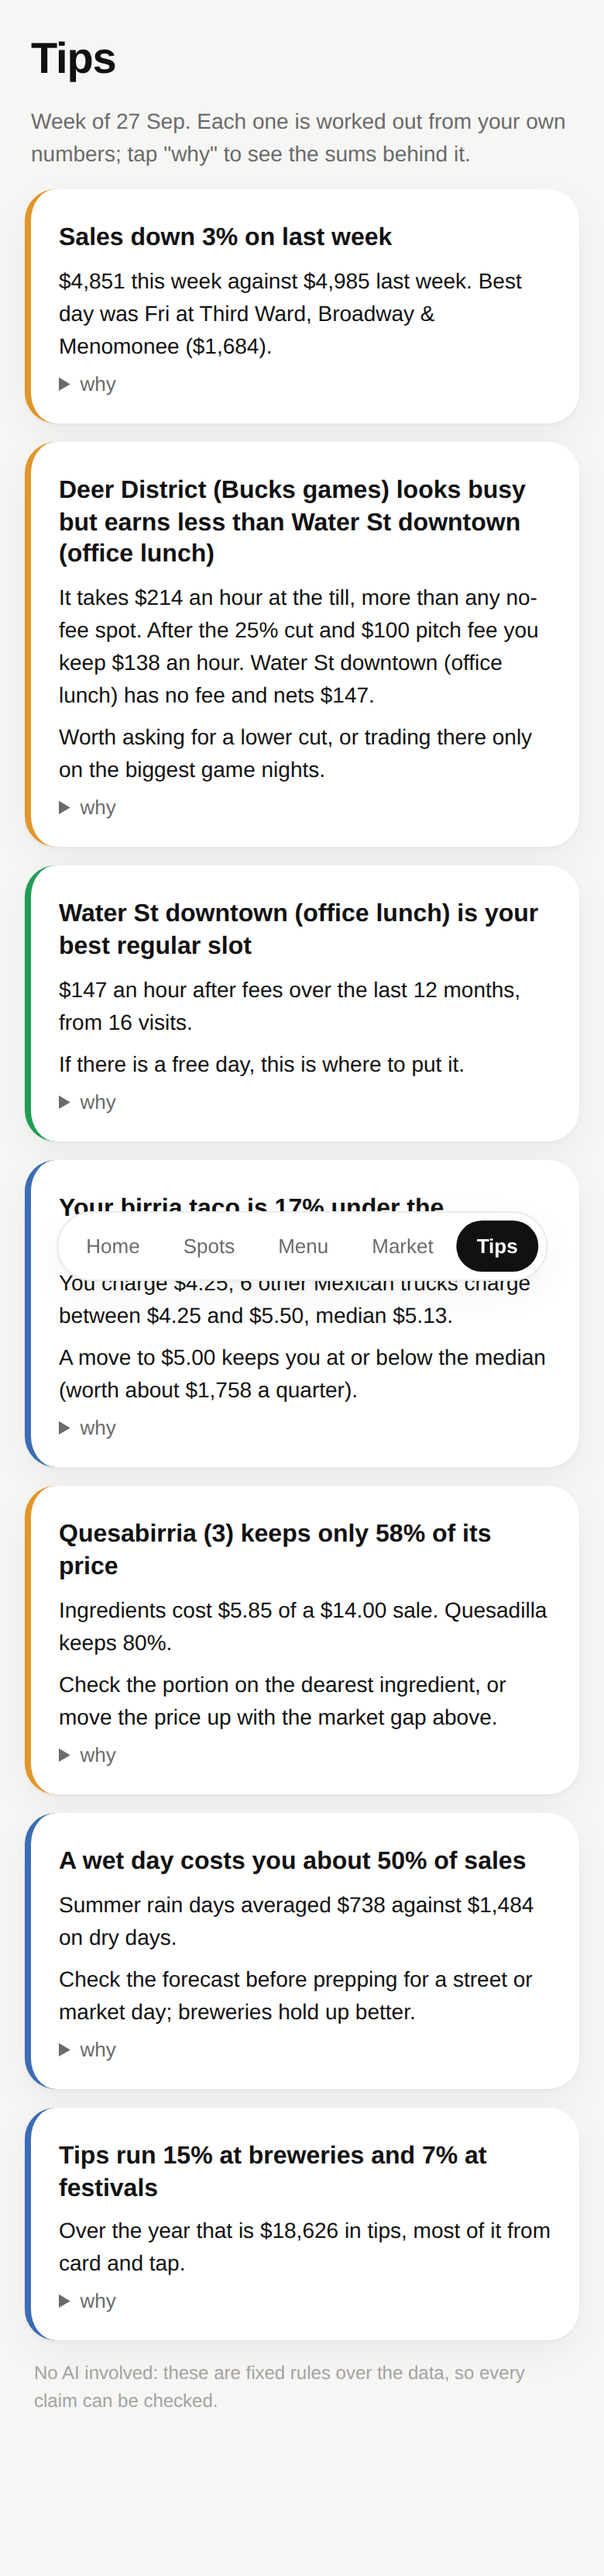
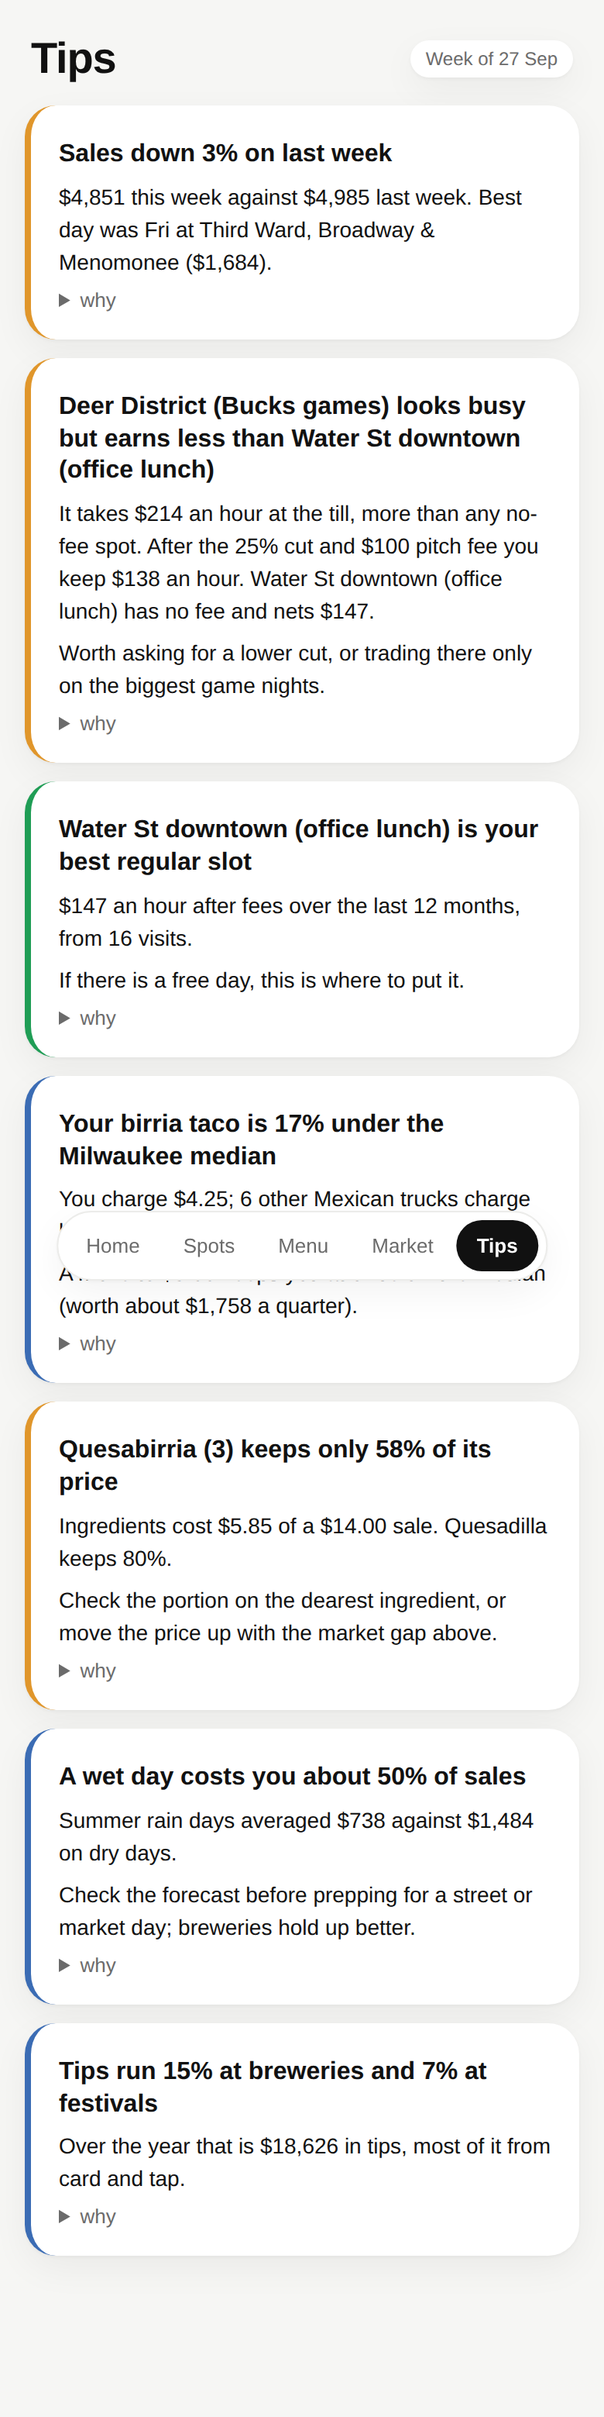
Add an overall business rating and strip the explanatory notes
The rating at the top of Home comes from three checks (sales trend, what
you keep after food, staff and fees, pricing against the market); tapping
it shows the checks. Footnotes and intro paragraphs removed from every
screen; the Menu intro became a 'you keep' figure. The Home chart now
highlights the last day traded rather than a day off.

Claude-Session: https://claude.ai/code/session_011kULvXi1EhLGoQfkcWDNEp

diff --git a/food-truck-app/src/lib/health.ts b/food-truck-app/src/lib/health.ts
@@ -1,0 +1,52 @@
+// One overall rating for the top of Home, built from three checks an owner
+// can see and argue with. Each check scores -1, 0 or +1; the sum sets the
+// badge. Nothing here is a model: change a threshold and the rating moves.
+import { data, daysBetween, pct, pctChange, rangeWindow, totals } from './data'
+
+export type Check = { label: string; detail: string; score: -1 | 0 | 1 }
+export type Health = { rating: 'Good' | 'Steady' | 'Needs attention'; tone: 'good' | 'info' | 'warn'; summary: string; checks: Check[] }
+
+export function health(): Health {
+  const checks: Check[] = []
+
+  // 1. Momentum: this week against last week.
+  const w = rangeWindow('1W')
+  const now = totals(daysBetween(w.from, w.to))
+  const prev = totals(daysBetween(w.prevFrom, w.prevTo))
+  const ch = pctChange(now.gross, prev.gross)
+  if (ch === null) checks.push({ label: 'Sales trend', detail: 'Not enough history yet.', score: 0 })
+  else if (ch >= 0.05) checks.push({ label: 'Sales trend', detail: `Up ${pct(ch, false)} on last week.`, score: 1 })
+  else if (ch <= -0.1) checks.push({ label: 'Sales trend', detail: `Down ${pct(Math.abs(ch), false)} on last week.`, score: -1 })
+  else checks.push({ label: 'Sales trend', detail: `About level with last week (${pct(ch)}).`, score: 0 })
+
+  // 2. What you keep: sales minus food, staff and fees over the last 4 weeks.
+  const m = { from: addWeeks(w.to, -4), to: w.to }
+  const ds = daysBetween(m.from, m.to).filter((d) => d.trading)
+  const gross = ds.reduce((a, d) => a + (d.gross_sales ?? 0), 0)
+  const kept = ds.reduce((a, d) => a + (d.contribution ?? 0), 0)
+  const keep = gross ? kept / gross : 0
+  if (!gross) checks.push({ label: 'What you keep', detail: 'No sales in the last 4 weeks.', score: -1 })
+  else if (keep >= 0.25) checks.push({ label: 'What you keep', detail: `${pct(keep, false)} of sales left after food, staff and fees.`, score: 1 })
+  else if (keep >= 0.12) checks.push({ label: 'What you keep', detail: `${pct(keep, false)} of sales left after food, staff and fees. Healthy is 25% or more.`, score: 0 })
+  else checks.push({ label: 'What you keep', detail: `Only ${pct(keep, false)} of sales left after food, staff and fees.`, score: -1 })
+
+  // 3. Pricing against the market.
+  const priced = data.benchmarks.filter((b) => b.hero_price !== null && b.n_trucks >= 3)
+  const under = priced.filter((b) => (b.hero_vs_median ?? 0) <= -0.1).length
+  if (under === 0) checks.push({ label: 'Pricing', detail: 'No item is more than 10% under the market middle.', score: 1 })
+  else if (under <= 2) checks.push({ label: 'Pricing', detail: `${under} item${under > 1 ? 's' : ''} more than 10% under the market middle.`, score: 0 })
+  else checks.push({ label: 'Pricing', detail: `${under} items more than 10% under the market middle.`, score: -1 })
+
+  const total = checks.reduce((a, c) => a + c.score, 0)
+  const weak = checks.filter((c) => c.score < 0)
+  if (total >= 2) return { rating: 'Good', tone: 'good', summary: 'Sales, margin and pricing all look healthy.', checks }
+  if (total <= -1 || weak.length >= 2)
+    return { rating: 'Needs attention', tone: 'warn', summary: `${weak.map((c) => c.label.toLowerCase()).join(' and ')} need${weak.length === 1 ? 's' : ''} a look.`, checks }
+  return { rating: 'Steady', tone: 'info', summary: weak.length ? `Fine overall, but ${weak[0].label.toLowerCase()} needs a look.` : 'Nothing urgent. One or two things could be better.', checks }
+}
+
+function addWeeks(iso: string, n: number): string {
+  const d = new Date(iso + 'T00:00:00Z')
+  d.setUTCDate(d.getUTCDate() + n * 7 + 1)
+  return d.toISOString().slice(0, 10)
+}

diff --git a/food-truck-app/src/screens/Home.tsx b/food-truck-app/src/screens/Home.tsx
@@ -1,7 +1,9 @@
 import { Link } from 'react-router-dom'
 import { Bars, Card, Delta, Meter, Pills, Tile } from '../components/ui'
 import { RANGES, buckets, data, daysBetween, itemTotals, money, pctChange, rangeWindow, totals, type RangeKey } from '../lib/data'
+import { health } from '../lib/health'
 import { weeklyInsights } from '../lib/insights'
+import { useState } from 'react'
 
 export default function Home({ range, setRange }: { range: RangeKey; setRange: (k: RangeKey) => void }) {
   const w = rangeWindow(range)
@@ -14,6 +16,8 @@ export default function Home({ range, setRange }: { range: RangeKey; setRange: (
   const prevAvg = prev.orders ? prev.gross / prev.orders : 0
   const tips = weeklyInsights()
   const lead = tips.find((t) => t.id === 'fees') ?? tips[0]
+  const h = health()
+  const [why, setWhy] = useState(false)
 
   return (
     <>
@@ -24,6 +28,27 @@ export default function Home({ range, setRange }: { range: RangeKey; setRange: (
         </div>
         <div className="avatar" aria-hidden>{data.truck.owner[0]}</div>
       </header>
+
+      <Card className={`rating ${h.tone}`} onClick={() => setWhy(!why)}>
+        <div className="row">
+          <div>
+            <div className="label">Business is</div>
+            <div className="rating-word">{h.rating}</div>
+            <div className="rating-sum">{h.summary}</div>
+          </div>
+          <span className={`dot ${h.tone}`} aria-hidden />
+        </div>
+        {why && (
+          <ul className="checks">
+            {h.checks.map((c) => (
+              <li key={c.label} className={c.score > 0 ? 'good' : c.score < 0 ? 'warn' : 'info'}>
+                <span className="dot" aria-hidden />
+                <div><b>{c.label}</b><span>{c.detail}</span></div>
+              </li>
+            ))}
+          </ul>
+        )}
+      </Card>
 
       <Card className="hero">
         <div className="row">
@@ -72,9 +97,6 @@ export default function Home({ range, setRange }: { range: RangeKey; setRange: (
         </ul>
       </Card>
 
-      <p className="foot">
-        {now.tradingDays} trading days, {now.hours} hours on the hatch. Data through {w.to}. Demo data, not a real truck.
-      </p>
     </>
   )
 }

diff --git a/food-truck-app/src/screens/Menu.tsx b/food-truck-app/src/screens/Menu.tsx
@@ -1,5 +1,5 @@
 import { Card, Meter, Pills, Spark } from '../components/ui'
-import { RANGES, addDays, data, itemTotals, money, pct, rangeWindow, type RangeKey } from '../lib/data'
+import { addDays, data, itemTotals, money, pct, rangeWindow, type RangeKey } from '../lib/data'
 
 function weeklySeries(itemId: string, to: string, weeks = 12): number[] {
   const out: number[] = []
@@ -16,7 +16,6 @@ export default function Menu({ range, setRange }: { range: RangeKey; setRange: (
   const w = rangeWindow(range)
   const items = itemTotals(w.from, w.to)
   const max = items[0]?.revenue ?? 1
-  const label = RANGES.find((r) => r.key === range)!.label
   const total = items.reduce((a, i) => a + i.revenue, 0)
   const cogs = items.reduce((a, i) => a + i.cogs, 0)
 
@@ -26,9 +25,12 @@ export default function Menu({ range, setRange }: { range: RangeKey; setRange: (
         <h1>Menu</h1>
         <Pills value={range} onChange={setRange} />
       </header>
-      <p className="lede">
-        Every item over the last {label}. "Keeps" is what is left after ingredients, from your recipe costs. {total > 0 ? `Overall you keep ${pct(1 - cogs / total, false)} of ${money(total)}.` : 'Nothing sold in this range.'}
-      </p>
+      {total > 0 && (
+        <Card className="hero compact">
+          <div className="label">You keep, after ingredients</div>
+          <div className="big">{pct(1 - cogs / total, false)} <small>of {money(total)}</small></div>
+        </Card>
+      )}
 
       <Card>
         <ul className="list">
@@ -54,7 +56,6 @@ export default function Menu({ range, setRange }: { range: RangeKey; setRange: (
           })}
         </ul>
       </Card>
-      <p className="foot">Sparkline is the last 12 weeks of sales for each item. Green keeps 60% or more; amber is under 60% and worth a look.</p>
     </>
   )
 }

diff --git a/food-truck-app/src/app.css b/food-truck-app/src/app.css
@@ -135,3 +135,18 @@ a.plain { text-decoration: none; color: inherit; }
 }
 .nav a { font-size: 13px; padding: 9px 13px; border-radius: 999px; color: var(--ink-2); text-decoration: none; }
 .nav a.on { background: var(--ink); color: #fff; font-weight: 600; }
+
+/* rating */
+.rating { cursor: pointer; }
+.rating-word { font-size: 30px; font-weight: 700; letter-spacing: -0.02em; line-height: 1.1; margin: 2px 0; }
+.rating-sum { font-size: 13px; color: var(--ink-2); }
+.dot { width: 14px; height: 14px; border-radius: 50%; flex: none; background: var(--ink-3); }
+.dot.good, .good > .dot { background: var(--good); }
+.dot.warn, .warn > .dot { background: var(--warn); }
+.dot.info, .info > .dot { background: #3b6cb4; }
+.checks { list-style: none; margin: 14px 0 0; padding: 12px 0 0; border-top: 1px solid var(--line); display: flex; flex-direction: column; gap: 10px; }
+.checks li { display: flex; gap: 10px; align-items: flex-start; }
+.checks li .dot { width: 10px; height: 10px; margin-top: 4px; }
+.checks li div { display: flex; flex-direction: column; gap: 2px; font-size: 13px; }
+.checks li span:not(.dot) { color: var(--ink-2); }
+.tag { font-size: 12px; color: var(--ink-2); background: var(--card); padding: 5px 10px; border-radius: 999px; box-shadow: var(--shadow); }

diff --git a/food-truck-app/src/screens/Spots.tsx b/food-truck-app/src/screens/Spots.tsx
@@ -1,6 +1,6 @@
 import { useState } from 'react'
 import { Bars, Card, Meter, Pills } from '../components/ui'
-import { RANGES, hourLabel, hourlyFor, money, pct, rangeWindow, spotStats, type RangeKey } from '../lib/data'
+import { hourLabel, hourlyFor, money, pct, rangeWindow, spotStats, type RangeKey } from '../lib/data'
 
 export default function Spots({ range, setRange }: { range: RangeKey; setRange: (k: RangeKey) => void }) {
   const w = rangeWindow(range)
@@ -8,7 +8,6 @@ export default function Spots({ range, setRange }: { range: RangeKey; setRange: 
   const [open, setOpen] = useState<string | null>(null)
   const maxNet = Math.max(1, ...spots.map((s) => s.netPerHour))
   const maxGross = Math.max(1, ...spots.map((s) => s.grossPerHour))
-  const label = RANGES.find((r) => r.key === range)!.label
 
   return (
     <>
@@ -16,7 +15,6 @@ export default function Spots({ range, setRange }: { range: RangeKey; setRange: 
         <h1>Spots</h1>
         <Pills value={range} onChange={setRange} />
       </header>
-      <p className="lede">What each pitch earns per hour over the last {label}, after the fee the venue takes. Tap a spot for its best hours.</p>
 
       {spots.length === 0 && <Card>No trading days in this range.</Card>}
 

diff --git a/food-truck-app/src/screens/Market.tsx b/food-truck-app/src/screens/Market.tsx
@@ -15,14 +15,10 @@ export default function Market() {
       <header className="top">
         <h1>Market</h1>
       </header>
-      <p className="lede">
-        Your price against {trucks} other Mexican trucks in Milwaukee, item for item. The grey bar is the range they charge, the tick is the middle, the dot is you.
-      </p>
 
       <Card className="hero compact">
-        <div className="label">Items priced under the market middle</div>
+        <div className="label">Items priced under {trucks} other Milwaukee trucks</div>
         <div className="big">{below} <small>of {rows.length}</small></div>
-        <div className="sub">Sorted from biggest gap to smallest. Tap an item to see who charges what.</div>
       </Card>
 
       {rows.map((b) => {
@@ -57,7 +53,6 @@ export default function Market() {
           </Card>
         )
       })}
-      <p className="foot">Portions differ between trucks, so treat a gap under 5% as noise. Prices are demo data.</p>
     </>
   )
 }

diff --git a/food-truck-app/src/screens/Tips.tsx b/food-truck-app/src/screens/Tips.tsx
@@ -8,8 +8,8 @@ export default function Tips() {
     <>
       <header className="top">
         <h1>Tips</h1>
+        <span className="tag">Week of {shortDate(TODAY)}</span>
       </header>
-      <p className="lede">Week of {shortDate(TODAY)}. Each one is worked out from your own numbers; tap "why" to see the sums behind it.</p>
       {tips.map((t) => (
         <Card key={t.id} className={`insight ${t.tone}`}>
           <div className="insight-title">{t.title}</div>
@@ -21,7 +21,6 @@ export default function Tips() {
           </details>
         </Card>
       ))}
-      <p className="foot">No AI involved: these are fixed rules over the data, so every claim can be checked.</p>
     </>
   )
 }

diff --git a/food-truck-app/src/components/ui.tsx b/food-truck-app/src/components/ui.tsx
@@ -63,7 +63,10 @@ export function Bars({ bars, height = 120, highlightLast = true, format = (v: nu
   const gap = n > 20 ? 0.6 : 1.2
   const bw = (W - gap * (n - 1)) / n
   const labelEvery = n > 20 ? Math.ceil(n / 6) : 1
-  const active = sel ?? (highlightLast ? n - 1 : null)
+  // Default highlight: the last bar with anything in it, so a day off is not the headline.
+  let lastNonZero = n - 1
+  while (lastNonZero > 0 && bars[lastNonZero].value === 0) lastNonZero--
+  const active = sel ?? (highlightLast ? lastNonZero : null)
   return (
     <div className="bars">
       {active !== null && bars[active] && (
